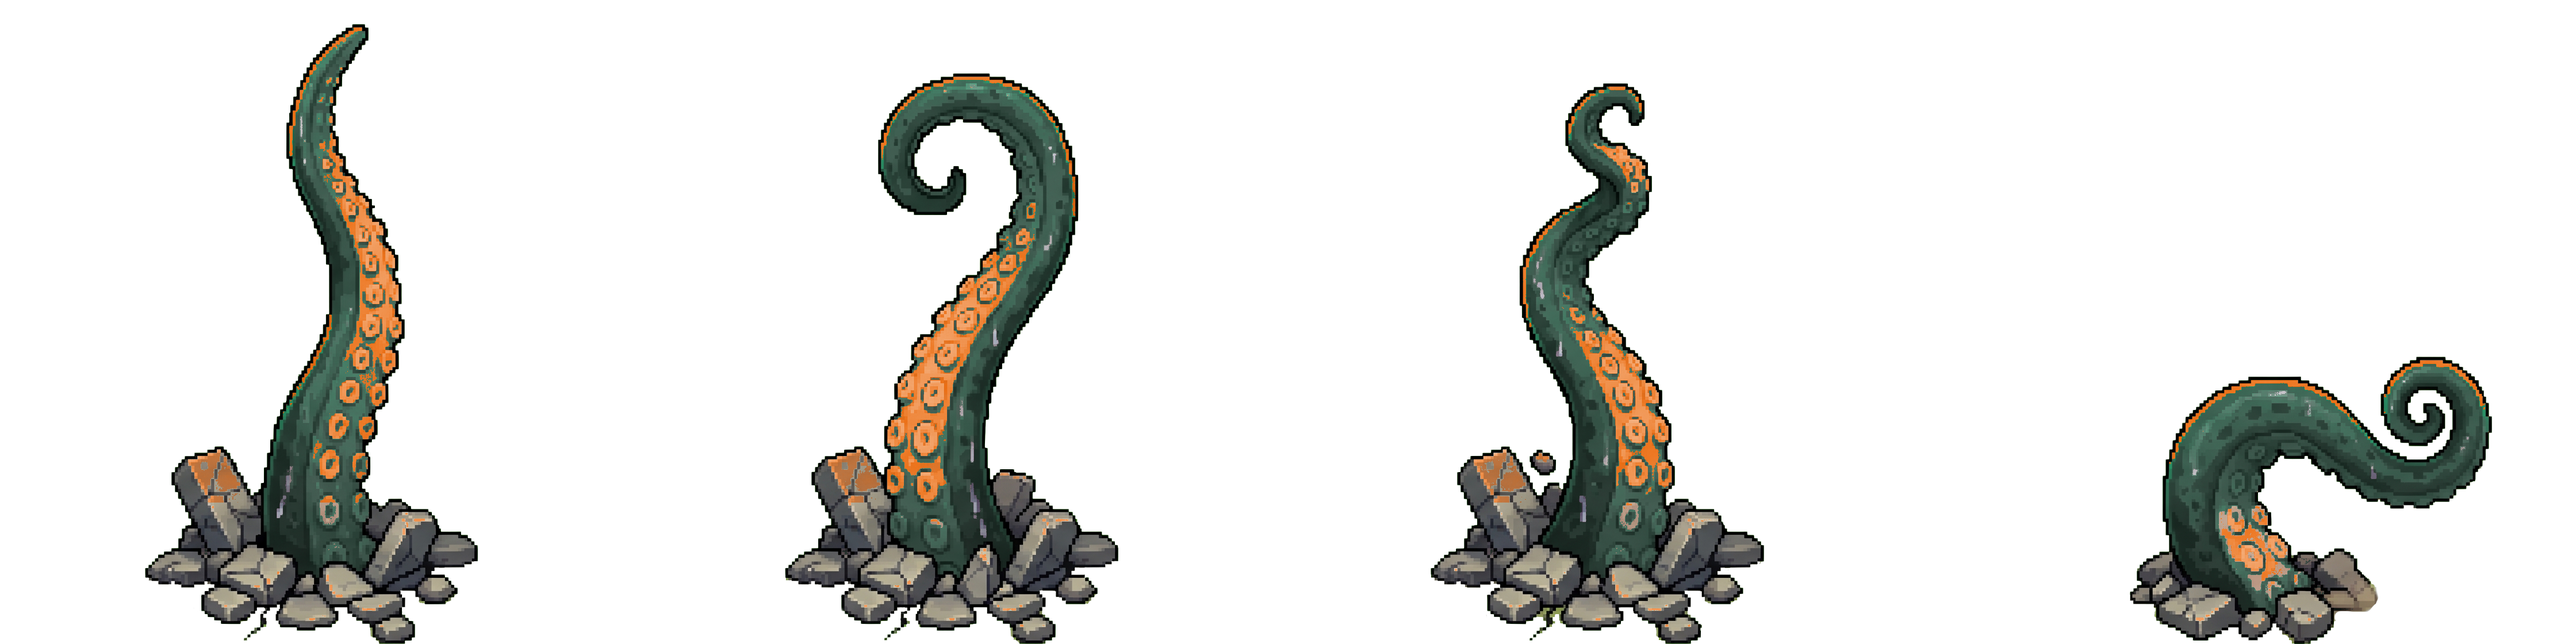
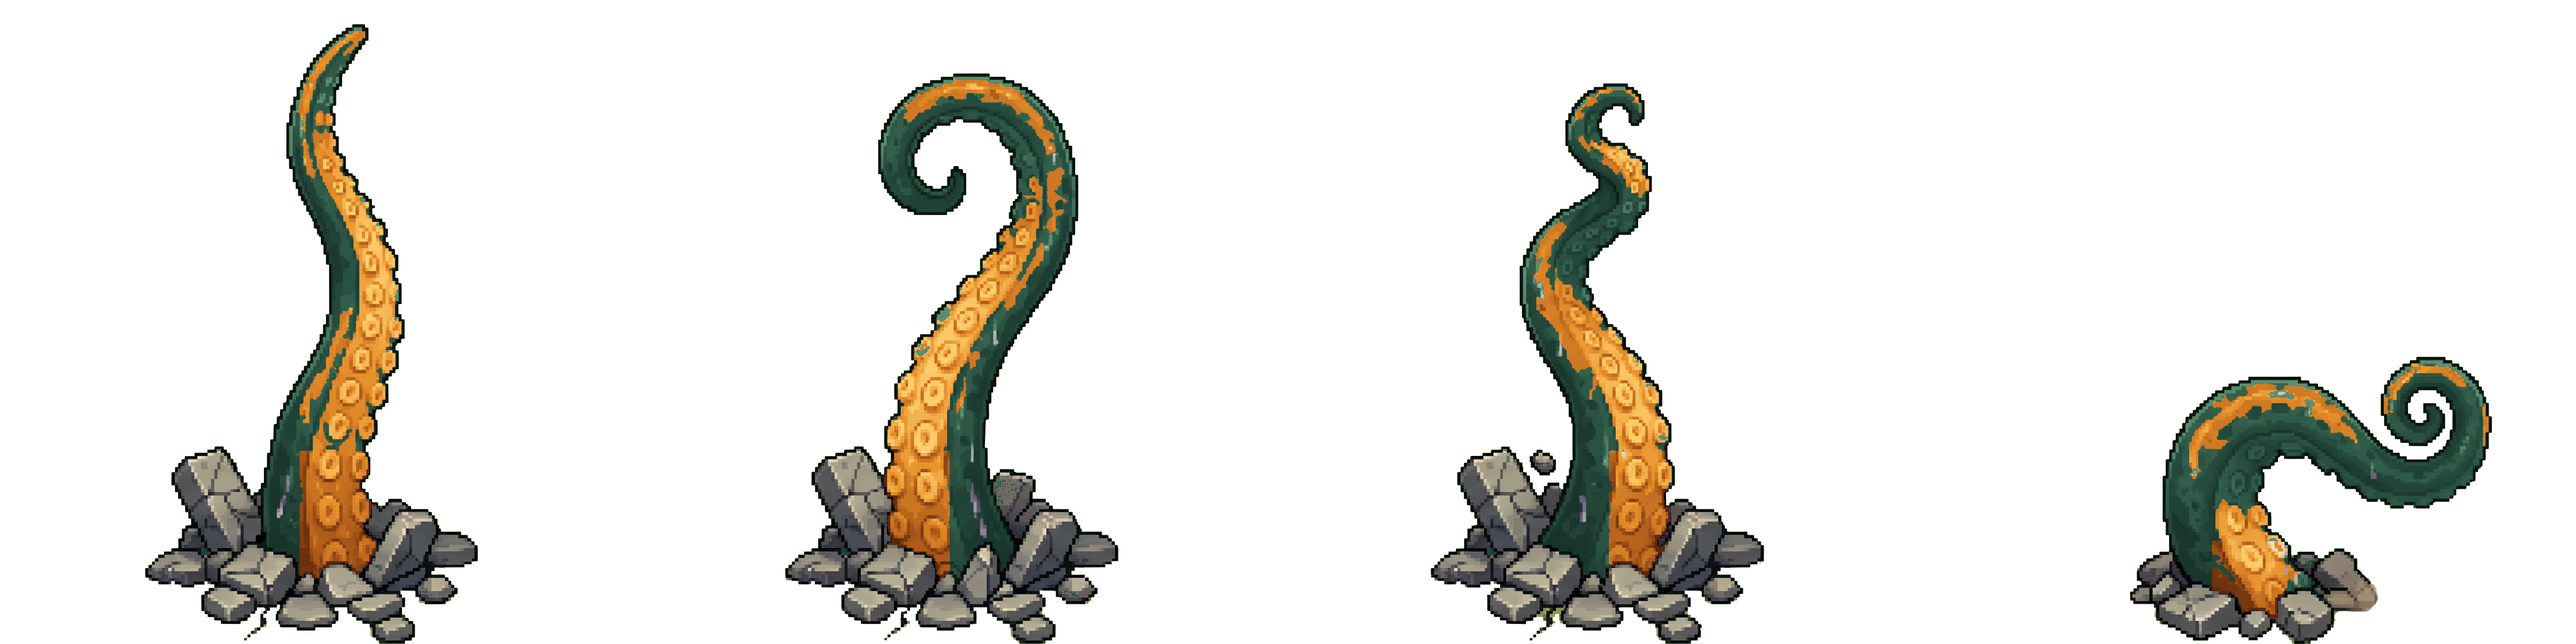
Puiutu: the Dreamer's tentacles get clean colours: green skin, the whole sucker side orange, the rubble grey
Same drawing as before, recoloured from the original sheet; ?v=2 so nobody keeps the old one cached.

diff --git a/life_of_puiutu_game.html b/life_of_puiutu_game.html
@@ -3259,7 +3259,7 @@ const SEA_IMG={};
 // abyss_tentacle.png = a horizontal sprite-sheet of square frames; abyss_core.png = a single frame.
 // the Dreamer's tentacles, in its waking and in the fight: a sheet of square frames (writhing,
 // reared on the last one), recoloured to its dark green with warm orange suckers
-const ABYSS_TENT=new Image(); ABYSS_TENT.src='mobs/tentacle_green.png';
+const ABYSS_TENT=new Image(); ABYSS_TENT.src='mobs/tentacle_green.png?v=2';   // ?v: recoloured, so nobody keeps the old one cached
 function tentFrames(){ const fh=ABYSS_TENT.naturalHeight, n=Math.max(1,Math.round(ABYSS_TENT.naturalWidth/fh)); return {fh, n, fw:ABYSS_TENT.naturalWidth/n}; }
 // the Dreamer's eyes out in the dark during its waking: a fixed layout, framing the face and never
 // over it. fx/fy: place on screen; cut: which of the arena's small painted eyes (wakeEyes 0-3) it
